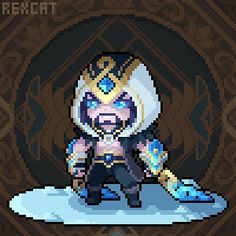
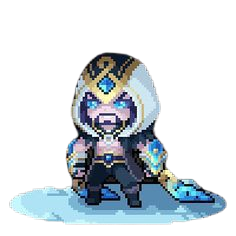
Final

diff --git a/raygame/TragerTestScene.cpp b/raygame/TragerTestScene.cpp
@@ -23,9 +23,9 @@ void TragerTestScene::start()
 
 	Partner* partner = new Partner();
 
-	MathLibrary::Vector2 partnerScale = MathLibrary::Vector2(15, 15);
+	MathLibrary::Vector2 partnerScale = MathLibrary::Vector2(0.60, 0.6);
 	partner->getTransform()->setScale(partnerScale);
-	partner->addComponent(new SpriteComponent(partner, "Images/WaterPartnerSpriteSheet.png"));
+	partner->addComponent(new SpriteComponent(partner, "Images/enemy.png"));
 	addActor(partner);
 
 	Player* test = new Player(50, nullptr, 100);
